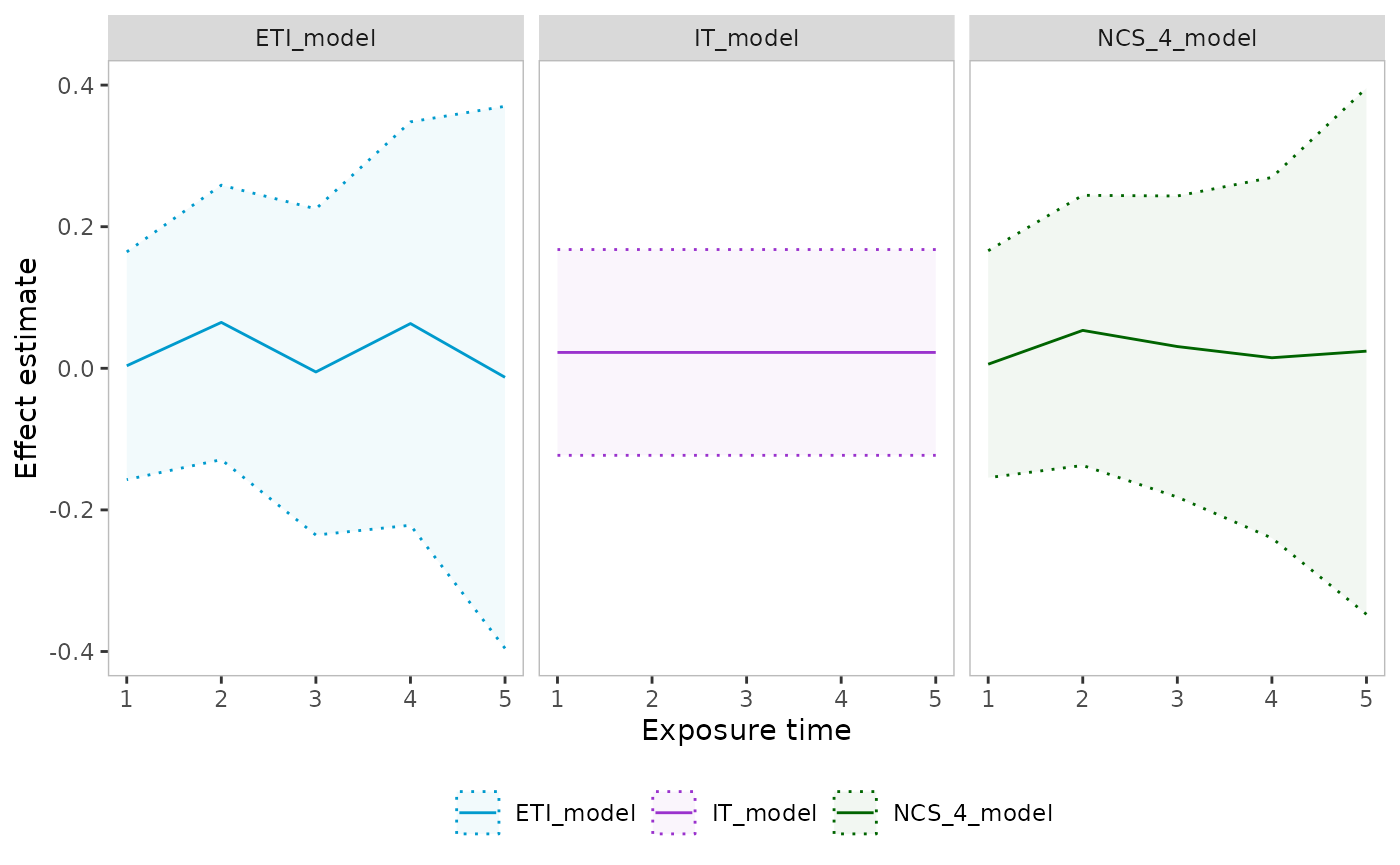
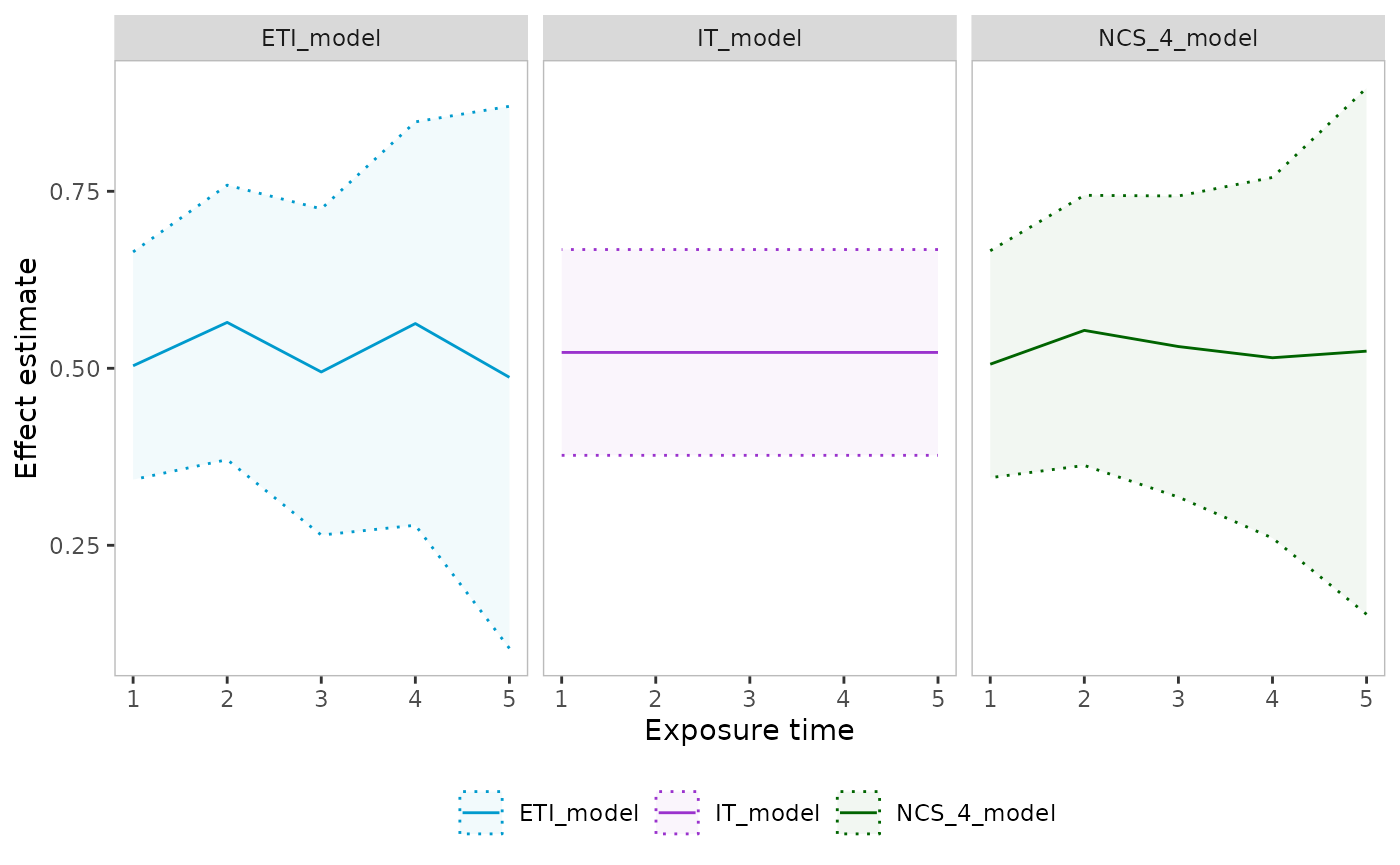
Deploying to gh-pages from @ Avi-Kenny/steppedwedge@3d1b5acc8809323b15ac6abbd86140ff121de9d3 🚀

diff --git a/articles/steppedwedge.html b/articles/steppedwedge.html
@@ -75,12 +75,12 @@ data object that can be accepted by the <code>plot_design</code> and
 <code class="sourceCode R"><span><span class="fu"><a href="https://rdrr.io/r/utils/data.html" class="external-link">data</a></span><span class="op">(</span><span class="va">sw_data_example</span><span class="op">)</span></span>
 <span><span class="fu"><a href="https://rdrr.io/r/utils/head.html" class="external-link">head</a></span><span class="op">(</span><span class="va">sw_data_example</span><span class="op">)</span></span>
 <span><span class="co">#&gt;   cluster period trt      prob outcome_bin outcome_cont denominator numerator</span></span>
-<span><span class="co">#&gt; 1       1      1   0 0.5667807           0  -3.02179837          14         4</span></span>
-<span><span class="co">#&gt; 2       1      1   0 0.5667807           0  -0.07145287           5         2</span></span>
-<span><span class="co">#&gt; 3       1      1   0 0.5667807           1   0.96807617           8         6</span></span>
-<span><span class="co">#&gt; 4       1      1   0 0.5667807           0   0.29456948           5         4</span></span>
-<span><span class="co">#&gt; 5       1      1   0 0.5667807           1  -0.83921584          11        10</span></span>
-<span><span class="co">#&gt; 6       1      1   0 0.5667807           1  -0.42335941          10         6</span></span>
+<span><span class="co">#&gt; 1       1      1   0 0.5667807           0  -3.02179837          14        11</span></span>
+<span><span class="co">#&gt; 2       1      1   0 0.5667807           0  -0.07145287           5         3</span></span>
+<span><span class="co">#&gt; 3       1      1   0 0.5667807           1   0.96807617           8         3</span></span>
+<span><span class="co">#&gt; 4       1      1   0 0.5667807           0   0.29456948           5         1</span></span>
+<span><span class="co">#&gt; 5       1      1   0 0.5667807           1  -0.83921584          11         2</span></span>
+<span><span class="co">#&gt; 6       1      1   0 0.5667807           1  -0.42335941          10         4</span></span>
 <span></span>
 <span><span class="va">dat</span> <span class="op">&lt;-</span> <span class="fu"><a href="../reference/load_data.html">load_data</a></span><span class="op">(</span></span>
 <span>  time <span class="op">=</span> <span class="st">"period"</span>,</span>
@@ -115,8 +115,8 @@ Treatment (IT) effect, passing the <code>family = "binomial"</code> and
 <span><span class="op">)</span></span>
 <span></span>
 <span><span class="fu"><a href="https://rdrr.io/r/base/print.html" class="external-link">print</a></span><span class="op">(</span><span class="va">analysis_1</span><span class="op">)</span></span>
-<span><span class="co">#&gt; Treatment effect estimate: -0.189</span></span>
-<span><span class="co">#&gt; Treatment effect 95% confidence interval: -0.448, 0.07</span></span>
+<span><span class="co">#&gt; Treatment effect estimate: 0.39</span></span>
+<span><span class="co">#&gt; Treatment effect 95% confidence interval: 0.123, 0.656</span></span>
 <span><span class="co">#&gt; Converged: TRUE</span></span></code></pre></div>
 <p>Repeat the analysis, but including a random effect for cluster only,
 not for cluster-time interaction.</p>
@@ -131,8 +131,8 @@ not for cluster-time interaction.</p>
 <span><span class="op">)</span></span>
 <span></span>
 <span><span class="fu"><a href="https://rdrr.io/r/base/print.html" class="external-link">print</a></span><span class="op">(</span><span class="va">analysis_1b</span><span class="op">)</span></span>
-<span><span class="co">#&gt; Treatment effect estimate: -0.189</span></span>
-<span><span class="co">#&gt; Treatment effect 95% confidence interval: -0.448, 0.07</span></span>
+<span><span class="co">#&gt; Treatment effect estimate: 0.391</span></span>
+<span><span class="co">#&gt; Treatment effect 95% confidence interval: 0.128, 0.653</span></span>
 <span><span class="co">#&gt; Converged: TRUE</span></span></code></pre></div>
 <p>Repeat the analysis, but using GEE rather than a mixed model.</p>
 <div class="sourceCode" id="cb6"><pre class="downlit sourceCode r">
@@ -146,8 +146,8 @@ not for cluster-time interaction.</p>
 <span><span class="op">)</span></span>
 <span></span>
 <span><span class="fu"><a href="https://rdrr.io/r/base/print.html" class="external-link">print</a></span><span class="op">(</span><span class="va">analysis_2</span><span class="op">)</span></span>
-<span><span class="co">#&gt; Treatment effect estimate: -0.188</span></span>
-<span><span class="co">#&gt; Treatment effect 95% confidence interval: -0.438, 0.061</span></span>
+<span><span class="co">#&gt; Treatment effect estimate: 0.389</span></span>
+<span><span class="co">#&gt; Treatment effect 95% confidence interval: 0.138, 0.64</span></span>
 <span><span class="co">#&gt; Converged:</span></span></code></pre></div>
 <p>Mixed model, with Time Average Treament Effect (TATE) as the
 estimand, using an Exposure Time Indicator (ETI) model.</p>
@@ -159,11 +159,10 @@ estimand, using an Exposure Time Indicator (ETI) model.</p>
 <span>  exp_time <span class="op">=</span> <span class="st">"ETI"</span>,</span>
 <span>  family <span class="op">=</span> <span class="va">binomial</span></span>
 <span><span class="op">)</span></span>
-<span><span class="co">#&gt; boundary (singular) fit: see help('isSingular')</span></span>
 <span></span>
 <span><span class="fu"><a href="https://rdrr.io/r/base/print.html" class="external-link">print</a></span><span class="op">(</span><span class="va">analysis_3</span><span class="op">)</span></span>
-<span><span class="co">#&gt; Treatment effect estimate: -0.184</span></span>
-<span><span class="co">#&gt; Treatment effect 95% confidence interval: -0.496, 0.129</span></span>
+<span><span class="co">#&gt; Treatment effect estimate: 0.418</span></span>
+<span><span class="co">#&gt; Treatment effect 95% confidence interval: 0.102, 0.733</span></span>
 <span><span class="co">#&gt; Converged: TRUE</span></span></code></pre></div>
 <p>Mixed model, with Time Average Treatment Effect (TATE) as the
 estimand, using a Natural Cubic Splines (NCS) model.</p>
@@ -175,11 +174,10 @@ estimand, using a Natural Cubic Splines (NCS) model.</p>
 <span>  exp_time <span class="op">=</span> <span class="st">"NCS"</span>,</span>
 <span>  family <span class="op">=</span> <span class="va">binomial</span></span>
 <span><span class="op">)</span></span>
-<span><span class="co">#&gt; boundary (singular) fit: see help('isSingular')</span></span>
 <span></span>
 <span><span class="fu"><a href="https://rdrr.io/r/base/print.html" class="external-link">print</a></span><span class="op">(</span><span class="va">analysis_4</span><span class="op">)</span></span>
-<span><span class="co">#&gt; Treatment effect estimate: -0.184</span></span>
-<span><span class="co">#&gt; Treatment effect 95% confidence interval: -0.497, 0.128</span></span>
+<span><span class="co">#&gt; Treatment effect estimate: 0.421</span></span>
+<span><span class="co">#&gt; Treatment effect 95% confidence interval: 0.104, 0.738</span></span>
 <span><span class="co">#&gt; Converged: TRUE</span></span></code></pre></div>
 <div class="section level2">
 <h2 id="continuous-outcome">Continuous outcome<a class="anchor" aria-label="anchor" href="#continuous-outcome"></a>
@@ -207,8 +205,8 @@ estimand, using a Natural Cubic Splines (NCS) model.</p>
 <span><span class="op">)</span></span>
 <span></span>
 <span><span class="fu"><a href="https://rdrr.io/r/base/print.html" class="external-link">print</a></span><span class="op">(</span><span class="va">analysis_6</span><span class="op">)</span></span>
-<span><span class="co">#&gt; Treatment effect estimate: 0.026</span></span>
-<span><span class="co">#&gt; Treatment effect 95% confidence interval: -0.171, 0.223</span></span>
+<span><span class="co">#&gt; Treatment effect estimate: 0.526</span></span>
+<span><span class="co">#&gt; Treatment effect 95% confidence interval: 0.329, 0.723</span></span>
 <span><span class="co">#&gt; Converged: TRUE</span></span></code></pre></div>
 </div>
 <div class="section level2">
@@ -238,11 +236,10 @@ estimand, using an Exposure Time Indicator (ETI) model.</p>
 <span>  family <span class="op">=</span> <span class="va">binomial</span>,</span>
 <span>  estimand_type <span class="op">=</span> <span class="st">"TATE"</span>, </span>
 <span>  exp_time <span class="op">=</span> <span class="st">"ETI"</span><span class="op">)</span></span>
-<span><span class="co">#&gt; boundary (singular) fit: see help('isSingular')</span></span>
 <span></span>
 <span><span class="fu"><a href="https://rdrr.io/r/base/print.html" class="external-link">print</a></span><span class="op">(</span><span class="va">analysis_binom</span><span class="op">)</span></span>
-<span><span class="co">#&gt; Treatment effect estimate: 0.04</span></span>
-<span><span class="co">#&gt; Treatment effect 95% confidence interval: -0.051, 0.13</span></span>
+<span><span class="co">#&gt; Treatment effect estimate: 0.597</span></span>
+<span><span class="co">#&gt; Treatment effect 95% confidence interval: 0.447, 0.747</span></span>
 <span><span class="co">#&gt; Converged: TRUE</span></span></code></pre></div>
 </div>
 <div class="section level2">
